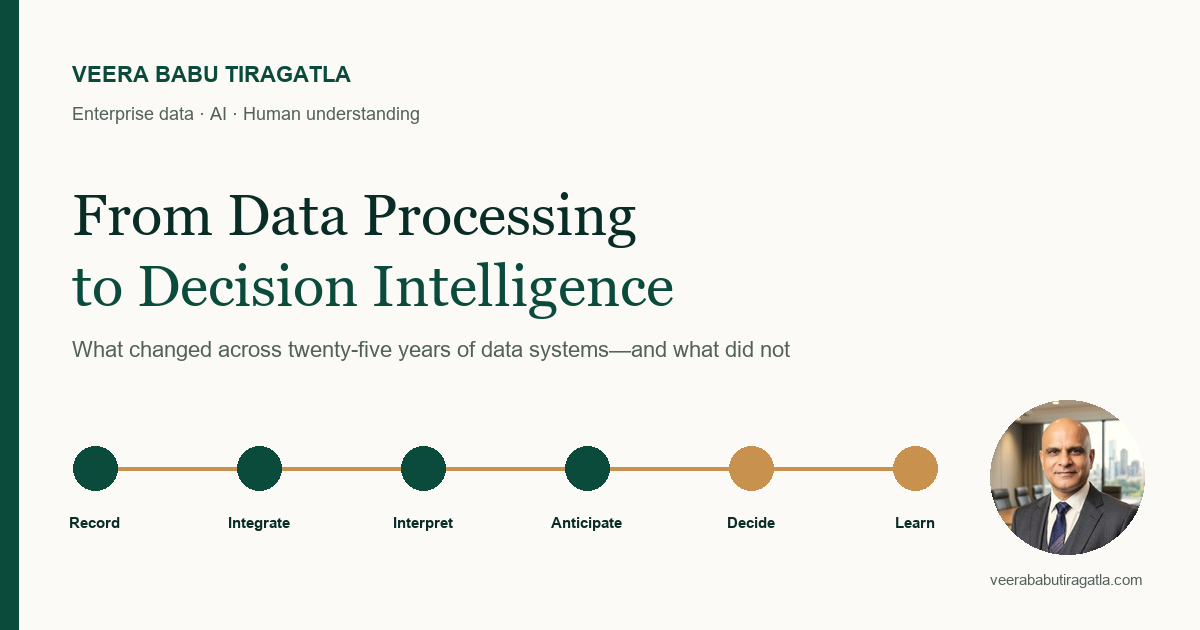
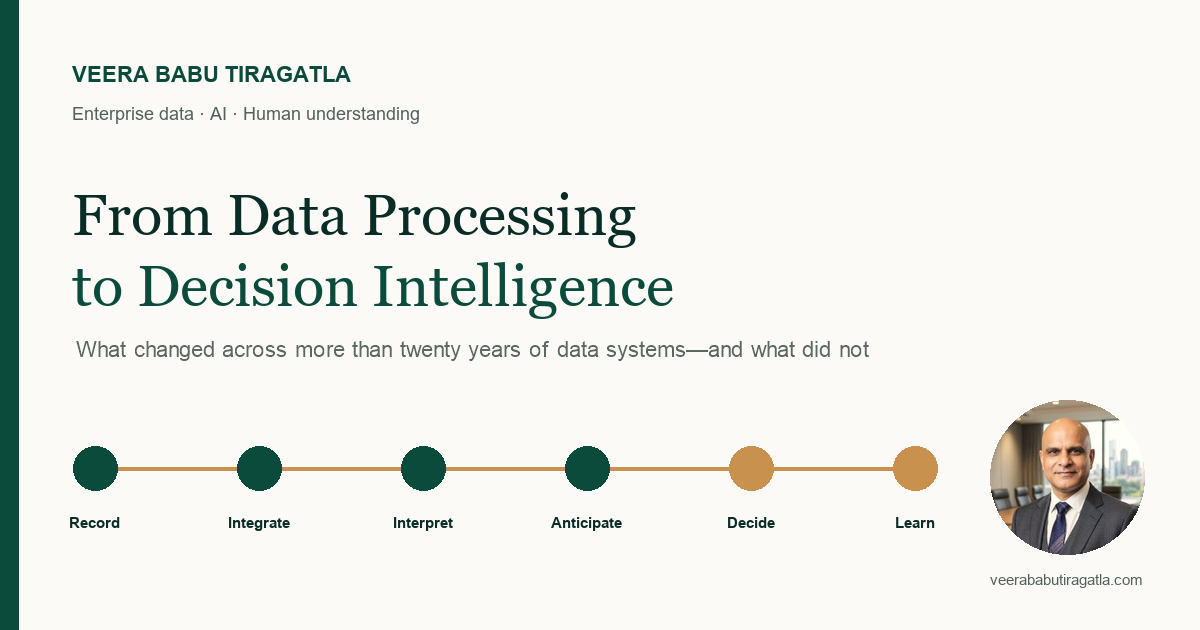
Apply controlled website QA corrections

Changed region(s): [[0.0617, 0.5429, 0.74, 0.573]]

diff --git a/_layouts/default.html b/_layouts/default.html
@@ -65,7 +65,7 @@
         "author": {"@id": "https://www.veerababutiragatla.com/#person"},
         "publisher": {"@id": "https://www.veerababutiragatla.com/#person"},
         "datePublished": "{{ page.date | default: site.time | date_to_xmlschema }}",
-        "dateModified": "{{ page.last_modified_at | default: site.time | date_to_xmlschema }}",
+        "dateModified": "{{ page.last_modified_at | default: page.date | date_to_xmlschema }}",
         "inLanguage": "en-AU"
       }
     ]

diff --git a/ECC_to_CloudERP_Migration_Blind_Spots.md b/ECC_to_CloudERP_Migration_Blind_Spots.md
@@ -15,7 +15,7 @@ reading_time: "5-minute read"
 
 ### Introduction
 
-Migrating from SAP ECC to S/4HANA or a cloud ERP platform is now routine — but routine does not equal risk-free. Most projects are scheduled like a technology upgrade; the real disruption comes from the behavioral, data and operational blind spots no one puts in the Gantt chart. Based on multiple programs I’ve worked on, here are three persistent blind spots — practical examples, pragmatic fixes, and what to watch for in each phase.
+Migrating from SAP ECC to S/4HANA or a cloud ERP platform is now routine — but routine does not equal risk-free. Most projects are scheduled like a technology upgrade; the real disruption comes from the behavioural, data and operational blind spots no one puts in the Gantt chart. Based on multiple programs I’ve worked on, here are three persistent blind spots — practical examples, pragmatic fixes, and what to watch for in each phase.
 
 ---
 
@@ -28,7 +28,7 @@ Every ECC landscape carries decades of bespoke logic: Z-programs, user exits, lo
 **Practical fixes**
 - **Operational rehearsals:** Run your actual batches and interface flows in a sandbox that mirrors cloud permissions — watch for IO, local file use, background schedulers and timezone assumptions.
 - **Risk map:** Identify top 20 custom objects by business impact and test them first (not last).
-- **Behavioral tests, not just static scans:** ATC and code-metric tools are useful — but also schedule real executions to reveal run-time assumptions.
+- **Behavioural tests, not just static scans:** ATC and code-metric tools are useful — but also schedule real executions to reveal run-time assumptions.
 
 **Consultant tip:** Add an “operational rehearsal” gate into your migration milestones. It prevents surprises that cost weeks, not days.
 

diff --git a/Who_Carries_Who_Decides_Who_Learns.md b/Who_Carries_Who_Decides_Who_Learns.md
@@ -8,6 +8,7 @@ image: /assets/images/who-carries-who-decides-who-learns-framework-v2.png
 image_width: 1536
 image_height: 1024
 date: 2026-08-30
+reading_time: "14-minute read"
 series: "Technology Landscape"
 ---
 
@@ -15,7 +16,7 @@ series: "Technology Landscape"
 
 <p class="article-deck">What Eight Frontier AI Players Reveal About the Journey from Intelligence to Enterprise Action</p>
 
-<p class="article-meta">Veera Babu Tiragatla &middot; Technology Landscape</p>
+<p class="article-meta">Veera Babu Tiragatla &middot; Technology Landscape &middot; 14-minute read</p>
 
 In my previous article, [**“Why Enterprise AI Is Becoming Harder to Compare,”**](/why-enterprise-ai-is-becoming-harder-to-compare/) I argued that much of the confusion around enterprise AI comes from comparing products that occupy different parts of the technology stack.
 

diff --git a/Can_Understanding_Be_Delegated.md b/Can_Understanding_Be_Delegated.md
@@ -176,7 +176,7 @@ Sometimes that is exactly what we want.
 
 But compression creates an interesting possibility: we may acquire the representation of understanding faster than we acquire the structure underneath it.
 
-Research on metacognition has shown that people can misjudge what they have learned, and that fluency can sometimes influence judgments of understanding. [[2]](https://doi.org/10.1146/annurev-psych-113011-143823)
+Research on metacognition has shown that people can misjudge what they have learned, and that fluency can sometimes influence judgements of understanding. [[2]](https://doi.org/10.1146/annurev-psych-113011-143823)
 
 I have noticed versions of this in professional conversations for years.
 

diff --git a/S4HANA_2025_What_Smart_Enterprises_Are_Doing_Differently.md b/S4HANA_2025_What_Smart_Enterprises_Are_Doing_Differently.md
@@ -4,6 +4,8 @@ title: "S/4HANA in 2025: What Smart Enterprises Are Doing Differently"
 permalink: /S4HANA_2025_What_Smart_Enterprises_Are_Doing_Differently.html
 description: "Why effective S/4HANA transformations treat the programme as business architecture rather than a technical upgrade."
 image: /s4hana-thebest.png
+image_width: 1024
+image_height: 1024
 date: 2025-11-17
 series: "Technology Landscape"
 reading_time: "5-minute read"

diff --git a/Why_Enterprise_AI_Is_Becoming_Harder_to_Compare.md b/Why_Enterprise_AI_Is_Becoming_Harder_to_Compare.md
@@ -4,6 +4,8 @@ title: "Why Enterprise AI Is Becoming Harder to Compare"
 permalink: /why-enterprise-ai-is-becoming-harder-to-compare/
 description: "A practical guide to models, agents, MCP, A2A, enterprise context, and the platforms competing around them."
 image: /assets/images/enterprise-ai-comparison-map.jpg
+image_width: 1610
+image_height: 977
 date: 2026-08-23
 series: "Technology Landscape"
 reading_time: "15-minute read"

diff --git a/Hybrid_Work_Impact_on_ERP_Rollouts.md b/Hybrid_Work_Impact_on_ERP_Rollouts.md
@@ -4,6 +4,8 @@ title: "How Hybrid Work Has Affected ERP Rollouts"
 permalink: /Hybrid_Work_Impact_on_ERP_Rollouts.html
 description: "How hybrid work changes governance, adoption, training and cutover planning for modern ERP programmes."
 image: /hybrid-erp.png
+image_width: 1024
+image_height: 1024
 date: 2025-11-17
 series: "Technology Landscape"
 reading_time: "3-minute read"
